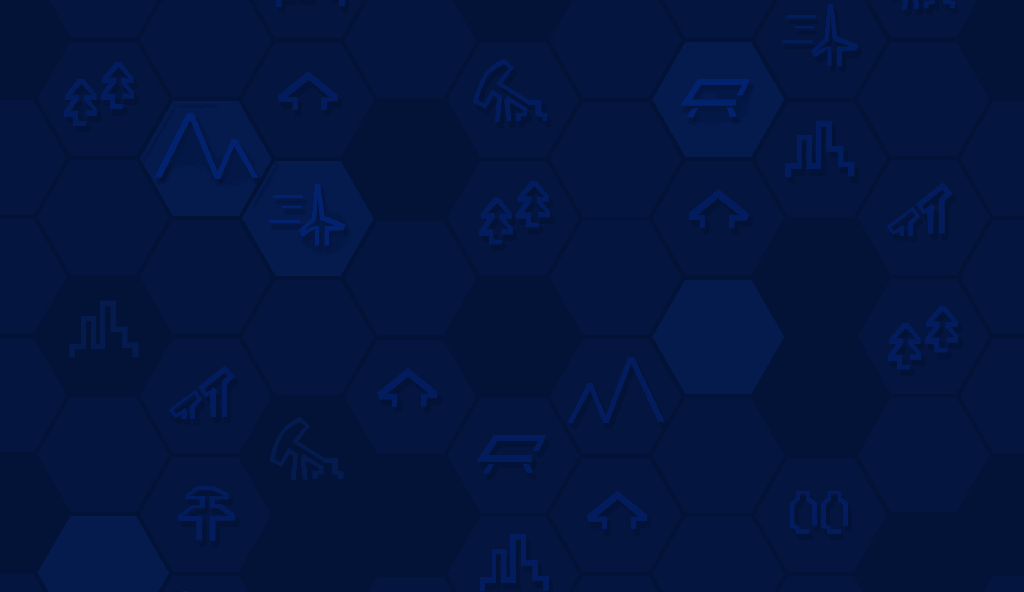
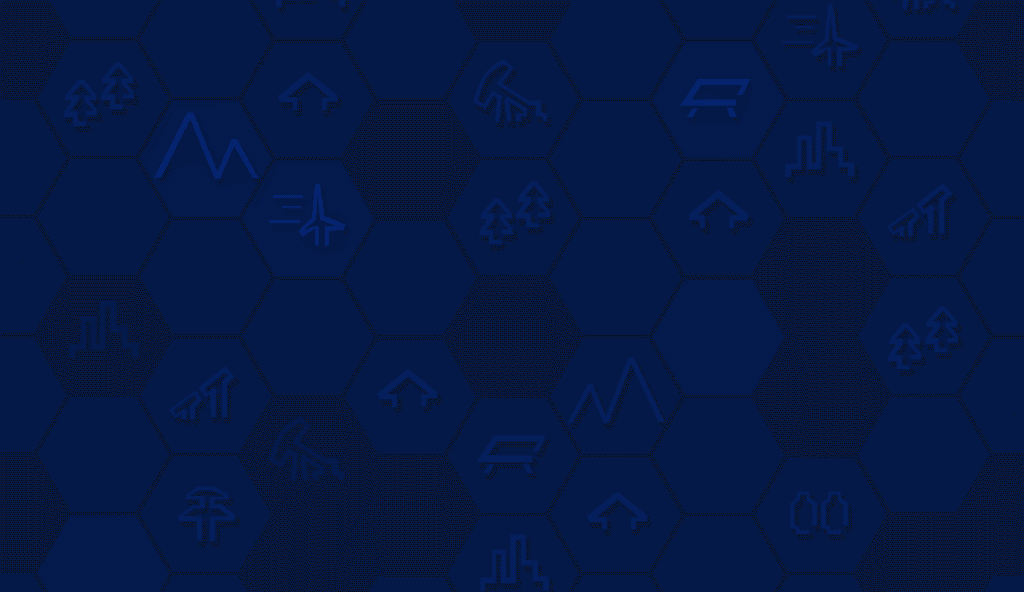
Visual fixes
loading screen now has drop shadow text, loading and mission select bg
now semi-transparent to allow bg to be seen through

diff --git a/Assets/Scripts/GUI Scripts/GUIControls/Loading.js b/Assets/Scripts/GUI Scripts/GUIControls/Loading.js
@@ -143,6 +143,10 @@ public class Loading extends GUIControl
 	private var exploreCareersAB:AnimatedButton;
 	private var beginMissionAB:AnimatedButton;
 	
+	private var jobTextST:ShadowedText;
+	private var panelST:ShadowedText;
+	private var panelST2:ShadowedText;
+	
 	public function Initialize()
 	{
 		super.Initialize();
@@ -233,14 +237,14 @@ public class Loading extends GUIControl
 		panelRect = createRect(placeholderPanel,0,0, 0.6, true, screenRect);
 		panelRect.x = screenRect.width / 2 - panelRect.width / 2;
 		panelRect.y = screenRect.height / 2 - panelRect.height / 2 - padding;
-		
+	
 		
 		jobWebsiteButtonRect.y = panelRect.y + panelRect.height - jobWebsiteButtonRect.height;
 		jobWebsiteButtonRect.x = screenRect.width - jobWebsiteButtonRect.width - panelRect.x;
 		
 		
 		
-		jobTextRect = createRect( Vector2(861, 531), 877f/1920f, 243f/1080f, 388f/1080f, false, screenRect);
+		jobTextRect = createRect( Vector2(861, 531), 877f/1920f, 243f/1080f, 388f/1080f, false, screenRect);		
 		
 		jobWebsiteButtonRect = createRect( websiteButton, 0.44, 0.58, 0.11, false, screenRect);
 		
@@ -288,6 +292,9 @@ public class Loading extends GUIControl
 		panelLabel.x = panelRect.x + panelRect.width + padding;
 		panelLabel.y = panelRect.y;
 		
+		panelST = new ShadowedText("", panelLabel, style, false);
+		panelST2 = new ShadowedText("", panelLabel, style, false);
+		
 		jobBoxRect = createRect(jobBox, 0,0,0.63, false, screenRect);
 		jobBoxRect.x = screenRect.width / 2 - jobBoxRect.width / 2;
 		jobBoxRect.y = screenRect.height / 2 - jobBoxRect.height / 2 - padding * 2;
@@ -328,7 +335,10 @@ public class Loading extends GUIControl
 				style.font = regularFont;
 				style.fontSize = descFontSize;
 				style.alignment = TextAnchor.UpperLeft;
-				GUI.Label(panelLabel, ((currentPanel+1) + "/" + panels.Count), style);
+				//GUI.Label(panelLabel, ((currentPanel+1) + "/" + panels.Count), style);
+				
+				panelST.Display(((currentPanel+1) + "/" + panels.Count), panelLabel);
+				
 				style.font = boldFont;
 				style.fontSize = loadingStatusFontSize;
 				style.alignment = TextAnchor.MiddleCenter;
@@ -355,12 +365,17 @@ public class Loading extends GUIControl
 				style.fontSize = descFontSize;
 				//style.alignment = TextAnchor.MiddleRight;
 				style.alignment = TextAnchor.UpperLeft;
-				GUI.Label(panelLabel, ((nextPanel+1) + "/" + panels.Count), style);
+				//GUI.Label(panelLabel, ((nextPanel+1) + "/" + panels.Count), style);
+				
+				panelST.Display(((nextPanel+1) + "/" + panels.Count), panelLabel);
 				
 				GUI.DrawTexture(panelRect, panels[nextPanel]);
 				GUI.color.a = 1.0 - fade;
 				
-				GUI.Label(panelLabel, ((currentPanel+1) + "/" + panels.Count), style);
+				//GUI.Label(panelLabel, ((currentPanel+1) + "/" + panels.Count), style);
+				panelST2.Display(((currentPanel+1) + "/" + panels.Count), panelLabel);
+				
+				
 				style.font = boldFont;
 				style.fontSize = loadingStatusFontSize;
 				style.alignment = TextAnchor.MiddleCenter;
@@ -376,7 +391,8 @@ public class Loading extends GUIControl
 				style.font = regularFont;
 				style.fontSize = descFontSize;
 				style.alignment = TextAnchor.UpperLeft;
-				GUI.Label(panelLabel, ((nextPanel+1) + "/" + panels.Count), style);
+				//GUI.Label(panelLabel, ((nextPanel+1) + "/" + panels.Count), style);
+				panelST2.Display(((nextPanel+1) + "/" + panels.Count), panelLabel);
 				style.font = boldFont;
 				style.fontSize = loadingStatusFontSize;
 				style.alignment = TextAnchor.MiddleCenter;
@@ -431,7 +447,8 @@ public class Loading extends GUIControl
 			style.font = regularFont;
 			style.fontSize = jobFontSize;
 			style.alignment = TextAnchor.UpperLeft;
-			GUI.Label(jobTextRect, currentJobInformation, style);
+			//GUI.Label(jobTextRect, currentJobInformation, style);
+			jobTextST.Display();
 			
 			style.font = boldFont;
 			style.fontSize = loadingStatusFontSize;
@@ -578,6 +595,9 @@ public class Loading extends GUIControl
 		descFontSize = Mathf.Min(Screen.width, Screen.height) * 0.035;
 		currentJobInformation = currentJobDesc;
 		jobFontSize = CalcFontByRect(currentJobInformation, jobTextRect, jobFontSize);
+		
+		jobTextST = new ShadowedText(currentJobInformation, jobTextRect, style, false);
+		
 	}
 	
 	// calculates and sets font size to fit text within a given rect, starting from a given initial size
